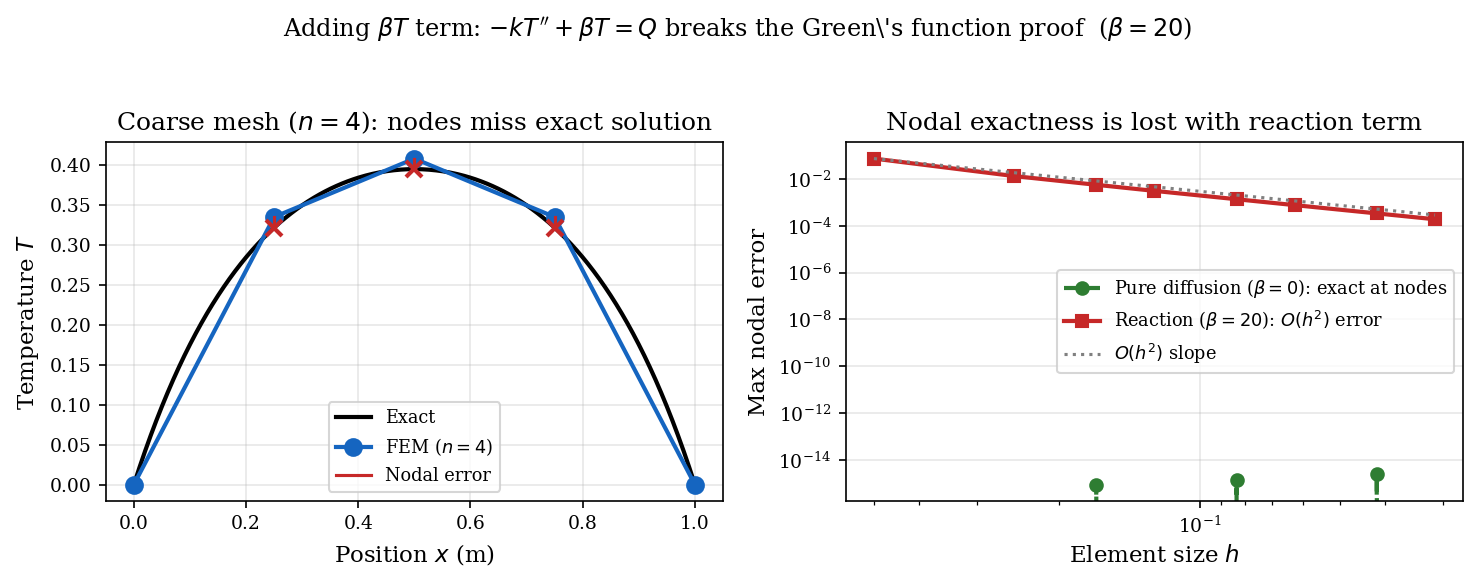
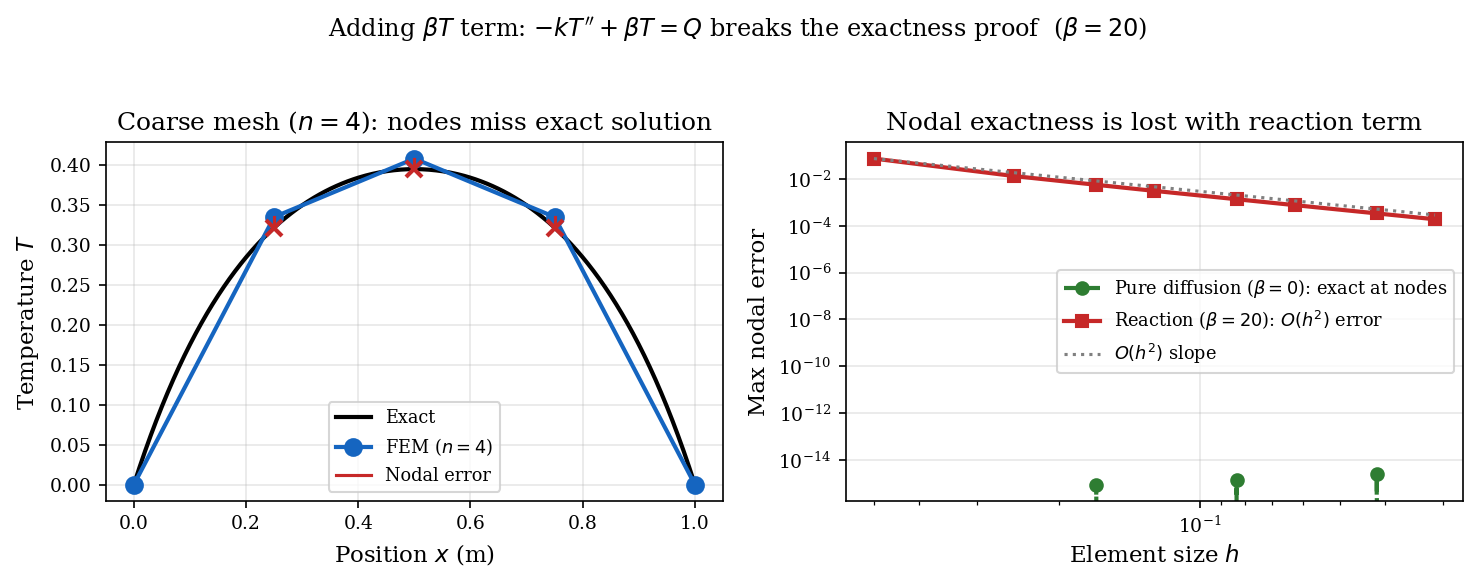
new figs

Changed region(s): [[0.1867, 0.0309, 0.8092, 0.0619]]

diff --git a/generate_figures.py b/generate_figures.py
@@ -357,4 +357,163 @@ fig.suptitle(
 plt.tight_layout()
 save('fig_reaction_term')
 
+# ============================================================
+# Figure 9: Piecewise linear approximation over a mesh
+#   For: "Cont." after Step 2  [Visualize Here]
+# ============================================================
+x_smooth = np.linspace(0, 1, 400)
+T_smooth = np.sin(np.pi * x_smooth)          # smooth exact "true" solution
+
+x_n = np.array([0, 1/3, 2/3, 1.0])
+T_n = np.sin(np.pi * x_n)                    # exact values at nodes
+
+fig, ax = plt.subplots(figsize=(8, 3.4))
+elem_cols = ['#BBDEFB', '#90CAF9', '#64B5F6']
+for i, col in enumerate(elem_cols):
+    ax.axvspan(x_n[i], x_n[i+1], alpha=0.18, color=col, zorder=0)
+    ax.text((x_n[i]+x_n[i+1])/2, 0.06, f'Elem {i+1}',
+            ha='center', fontsize=9, color=BLUE, fontweight='bold')
+
+T_fem_fine = np.interp(x_smooth, x_n, T_n)
+ax.fill_between(x_smooth, T_smooth, T_fem_fine, alpha=0.25, color=RED, label='Error between nodes')
+ax.plot(x_smooth, T_smooth, 'k--', lw=2, label='True $T(x)$ (smooth)')
+ax.plot(x_n, T_n, 'o-', color=BLUE, lw=2.5, markersize=9, label='FEM (piecewise linear)')
+
+for xi, Ti, lbl in zip(x_n, T_n, ['$T_1$', '$T_2$', '$T_3$', '$T_4$']):
+    ax.annotate(lbl, (xi, Ti), textcoords='offset points',
+                xytext=(0, 10), ha='center', fontsize=11, color=RED, fontweight='bold')
+
+ax.set_xticks(x_n)
+ax.set_xticklabels(['$x_1=0$', '$x_2=h$', '$x_3=2h$', '$x_4=L$'])
+ax.set_ylabel('Temperature $T$')
+ax.set_title(r'FEM approximation: $T(x)\approx\sum_i T_i N_i(x)$ is piecewise linear')
+ax.legend(fontsize=9, loc='upper right')
+plt.tight_layout()
+save('fig_piecewise_approx')
+
+
+# ============================================================
+# Figure 10: Why T'' = 0 for a linear element
+#   For: Step 3  [Visualization Here]
+# ============================================================
+T1v, T2v = 60.0, 100.0
+h_e = 1.0
+xv = np.linspace(0, h_e, 200)
+Tv   = T1v + (T2v - T1v) * xv / h_e
+dTv  = np.full_like(xv, (T2v - T1v) / h_e)
+d2Tv = np.zeros_like(xv)
+
+fig, axes = plt.subplots(1, 3, figsize=(9, 3.0))
+data = [(Tv,   '$T(x)$',              BLUE,   'Linear function',    None),
+        (dTv,  r"$\frac{dT}{dx}$",   ORANGE, 'Constant slope',     f'{(T2v-T1v)/h_e:.0f}'),
+        (d2Tv, r"$\frac{d^2T}{dx^2}$", RED,  r'$\mathbf{= 0}$ !', '0')]
+
+for ax, (y, ylabel, col, title, annot) in zip(axes, data):
+    ax.plot(xv, y, color=col, lw=2.5)
+    ax.set_xlabel('$x$ (local)')
+    ax.set_ylabel(ylabel)
+    ax.set_title(title)
+    ax.set_xticks([0, h_e])
+    ax.set_xticklabels(['$0$', '$h$'])
+    ax.axhline(0, color='black', lw=0.7)
+    if annot:
+        ax.text(0.5, 0.5, annot, transform=ax.transAxes,
+                ha='center', va='center', fontsize=13, color=col,
+                fontweight='bold', alpha=0.4)
+
+axes[0].plot([0, h_e], [T1v, T2v], 'o', color=BLUE, markersize=9, zorder=5)
+fig.suptitle(r'Linear $T(x) = T_1 N_1 + T_2 N_2$ $\Rightarrow$ $T^{\prime\prime}=0$  everywhere inside the element',
+             fontsize=11, y=1.02)
+plt.tight_layout()
+save('fig_zero_second_deriv')
+
+
+# ============================================================
+# Figure 11: T₁N₁ + T₂N₂ = linear interpolation
+#   For: Step 4a  [Figure here showing linear interpolation]
+# ============================================================
+T1v, T2v = 40.0, 100.0
+xv = np.linspace(0, 1.0, 300)
+N1v = 1 - xv
+N2v = xv
+
+fig, ax = plt.subplots(figsize=(7.5, 3.2))
+ax.plot(xv, T1v * N1v, '--', color=BLUE,   lw=2, label=f'$T_1 \\cdot N_1(x)$  (decays from {T1v:.0f} to 0)')
+ax.plot(xv, T2v * N2v, '--', color=ORANGE, lw=2, label=f'$T_2 \\cdot N_2(x)$  (grows from 0 to {T2v:.0f})')
+ax.plot(xv, T1v*N1v + T2v*N2v, '-', color=GREEN, lw=3,
+        label=f'Sum $= T_1 N_1 + T_2 N_2$  (straight line!)')
+ax.plot([0, 1], [T1v, T2v], 'o', color=RED, markersize=11, zorder=6)
+ax.annotate(f'$T_1={T1v:.0f}$', (0, T1v), textcoords='offset points', xytext=(8, -18),
+            fontsize=11, color=RED, fontweight='bold')
+ax.annotate(f'$T_2={T2v:.0f}$', (1, T2v), textcoords='offset points', xytext=(-45, 6),
+            fontsize=11, color=RED, fontweight='bold')
+ax.set_xticks([0, 0.5, 1])
+ax.set_xticklabels(['$0$', '$h/2$', '$h$'])
+ax.set_xlabel('Local position $x$')
+ax.set_ylabel('Temperature')
+ax.set_title('Shape function sum = linear interpolation between node values')
+ax.legend(fontsize=9)
+plt.tight_layout()
+save('fig_linear_interp_demo')
+
+
+# ============================================================
+# Figure 12: Nodal error visualization
+#   For: "Why Are Nodal Errors Zero?" section
+#   Problem: -T'' = sin(πx), T(0)=T(1)=0  →  T_exact = sin(πx)/π²
+# ============================================================
+from numpy.polynomial.legendre import leggauss
+
+k_nd = 1.0
+Q_nd     = lambda x: np.sin(np.pi * x)
+T_ex_fn  = lambda x: np.sin(np.pi * x) / np.pi**2
+
+n_elem_nd = 4
+n_nd = n_elem_nd + 1
+h_nd = 1.0 / n_elem_nd
+x_nd = np.linspace(0, 1.0, n_nd)
+
+K_nd = np.zeros((n_nd, n_nd))
+F_nd = np.zeros(n_nd)
+Ke_nd = (k_nd / h_nd) * np.array([[1., -1.], [-1., 1.]])
+gp, gw = leggauss(10)
+for e in range(n_elem_nd):
+    xi, xj = x_nd[e], x_nd[e+1]
+    K_nd[e:e+2, e:e+2] += Ke_nd
+    xg = 0.5*(xi+xj) + 0.5*(xj-xi)*gp
+    Qg = Q_nd(xg)
+    F_nd[e]   += 0.5*(xj-xi) * np.dot(gw, Qg * (xj-xg)/h_nd)
+    F_nd[e+1] += 0.5*(xj-xi) * np.dot(gw, Qg * (xg-xi)/h_nd)
+K_nd[0, :]=0.; K_nd[0,0]=1.;   F_nd[0]=0.
+K_nd[-1,:]=0.; K_nd[-1,-1]=1.; F_nd[-1]=0.
+T_fem_nd = np.linalg.solve(K_nd, F_nd)
+
+x_fine_nd  = np.linspace(0, 1.0, 500)
+T_ex_fine  = T_ex_fn(x_fine_nd)
+T_fem_fine = np.interp(x_fine_nd, x_nd, T_fem_nd)   # piecewise linear
+err_fine   = T_ex_fine - T_fem_fine
+err_nodes  = T_ex_fn(x_nd) - T_fem_nd
+
+fig, (ax1, ax2) = plt.subplots(2, 1, figsize=(8, 4.5), sharex=True,
+                                gridspec_kw={'height_ratios': [2, 1]})
+
+ax1.plot(x_fine_nd, T_ex_fine, 'k--', lw=2, label='Exact $T(x)$', zorder=4)
+ax1.plot(x_nd, T_fem_nd, 'o-', color=BLUE, lw=2, markersize=9, label='FEM (4 elements)')
+ax1.fill_between(x_fine_nd, T_ex_fine, T_fem_fine, alpha=0.25, color=RED,
+                 label='Error between nodes')
+ax1.set_ylabel('Temperature $T$')
+ax1.set_title(r'$-T^{\prime\prime} = \sin(\pi x)$: FEM nodes are exact, error lives between them')
+ax1.legend(fontsize=9, loc='upper right')
+
+ax2.plot(x_fine_nd, err_fine, color=RED, lw=2, label='$e(x) = T_{true} - T_{FEM}$')
+ax2.plot(x_nd, err_nodes, 'o', color=GREEN, markersize=11, zorder=5,
+         label=f'Nodal error  (max = {np.max(np.abs(err_nodes)):.1e})')
+ax2.axhline(0, color='black', lw=0.8)
+ax2.set_xlabel('Position $x$')
+ax2.set_ylabel('Error $e(x)$')
+ax2.legend(fontsize=9, loc='upper right')
+
+plt.tight_layout()
+save('fig_nodal_error')
+
 print('\nAll figures saved to figures/')